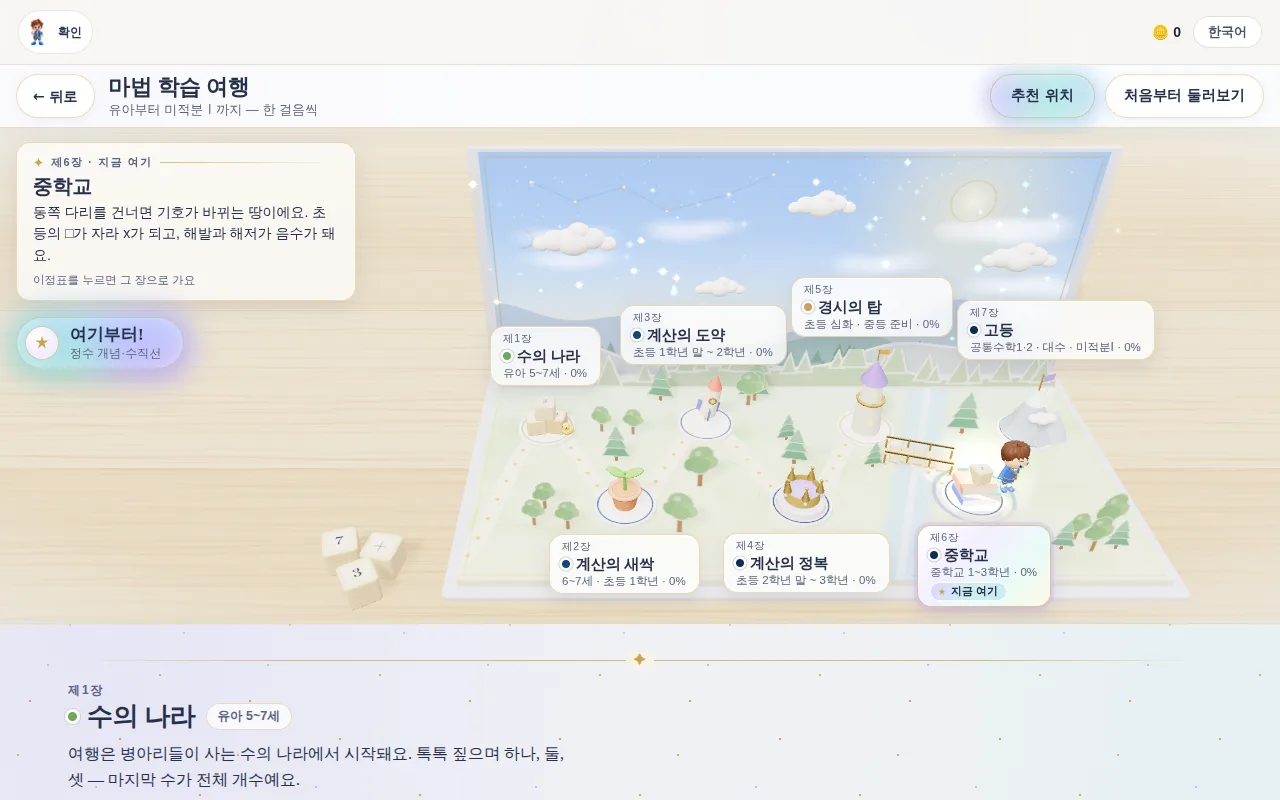
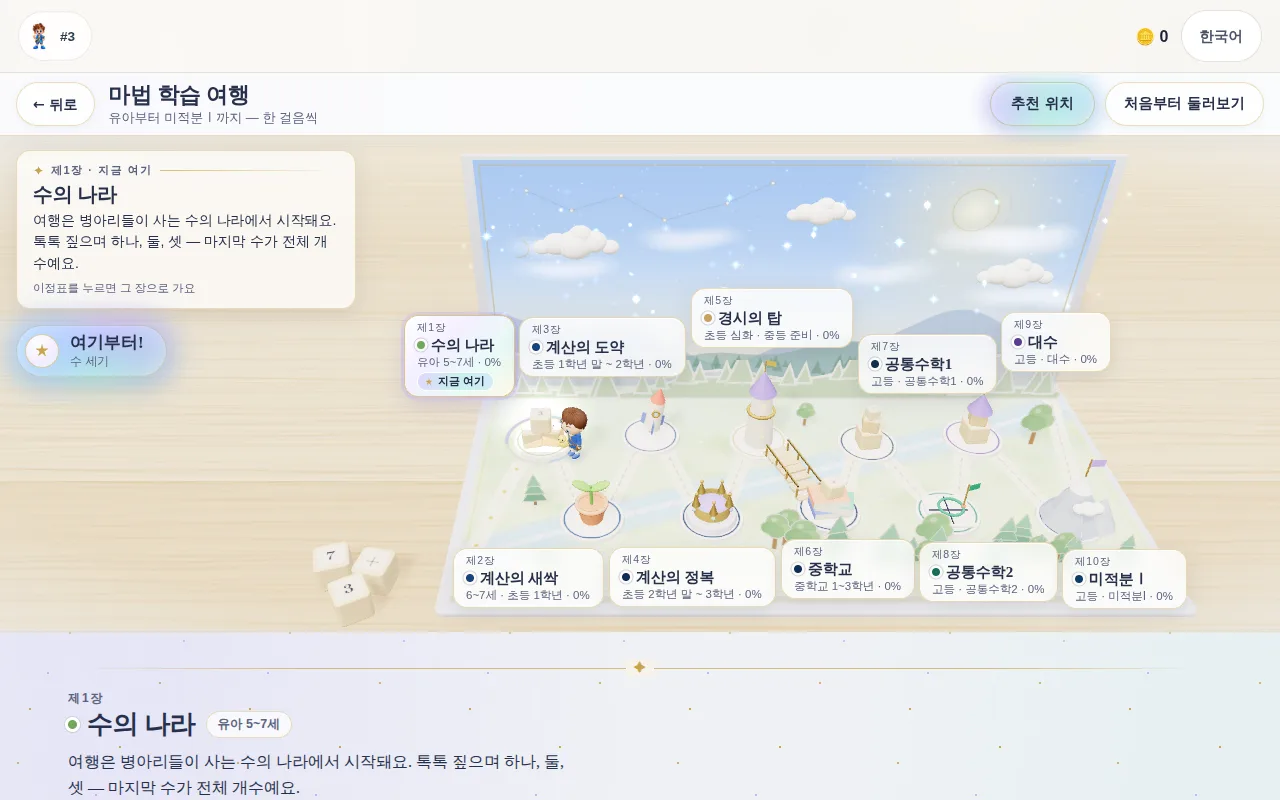
스토리 3D 지도: PC에서 제1장·제3장 이름표 겹침 해소 + story.webp 10장 화면으로 재촬영
윗줄 꼬리표(1·3·5·7·9)가 사슬로 이어져 4번 밀기로는 다 못 벌렸다 — 겹침이 없을 때까지(최대 40번).
1280·1366·1440·1920 PC 폭에서 겹침 0 확인.

Claude-Session: https://claude.ai/code/session_01T6HCktzZTCy63PeQAnPr61

diff --git a/number_magic/app/story3d/story3d.js b/number_magic/app/story3d/story3d.js
@@ -297,14 +297,19 @@ export async function mountStory3D(container, opts){
       const [x, y] = tagPos(s, ax, ay, ts);
       rects.push({ i, x, y, w:ts[0], h:ts[1], cx:ax });
     });
-    for(let pass = 0; pass < 4; pass++){
+    /* 윗줄 꼬리표는 1·3·5·7·9 가 사슬처럼 이어져 있어, 한 쌍을 벌리면 옆 쌍이 다시 붙는다 —
+       4번으로는 모자라 PC 에서 제1장·제3장이 겹쳐 보였다(2026-09-29). 더 겹치는 게 없을 때까지(최대 40번) 민다. */
+    for(let pass = 0; pass < 40; pass++){
+      let moved = false;
       for(let a = 0; a < rects.length; a++) for(let b = a + 1; b < rects.length; b++){
         const A = rects[a], B = rects[b];
         if(A.x < B.x + B.w + 4 && B.x < A.x + A.w + 4 && A.y < B.y + B.h + 3 && B.y < A.y + A.h + 3){
-          const ov = Math.min(A.x + A.w + 4 - B.x, B.x + B.w + 4 - A.x) / 2;
+          const ov = Math.min(A.x + A.w + 4 - B.x, B.x + B.w + 4 - A.x) / 2 + 0.5;
           if(A.x <= B.x){ A.x -= ov; B.x += ov; } else { A.x += ov; B.x -= ov; }
+          moved = true;
         }
       }
+      if(!moved) break;
     }
     const gb = box(goBtn), sb = box(story), eg = narrow ? 54 : 4;   /* 좁으면 좌우 단추 안쪽으로 */
     rects.forEach(R => {
